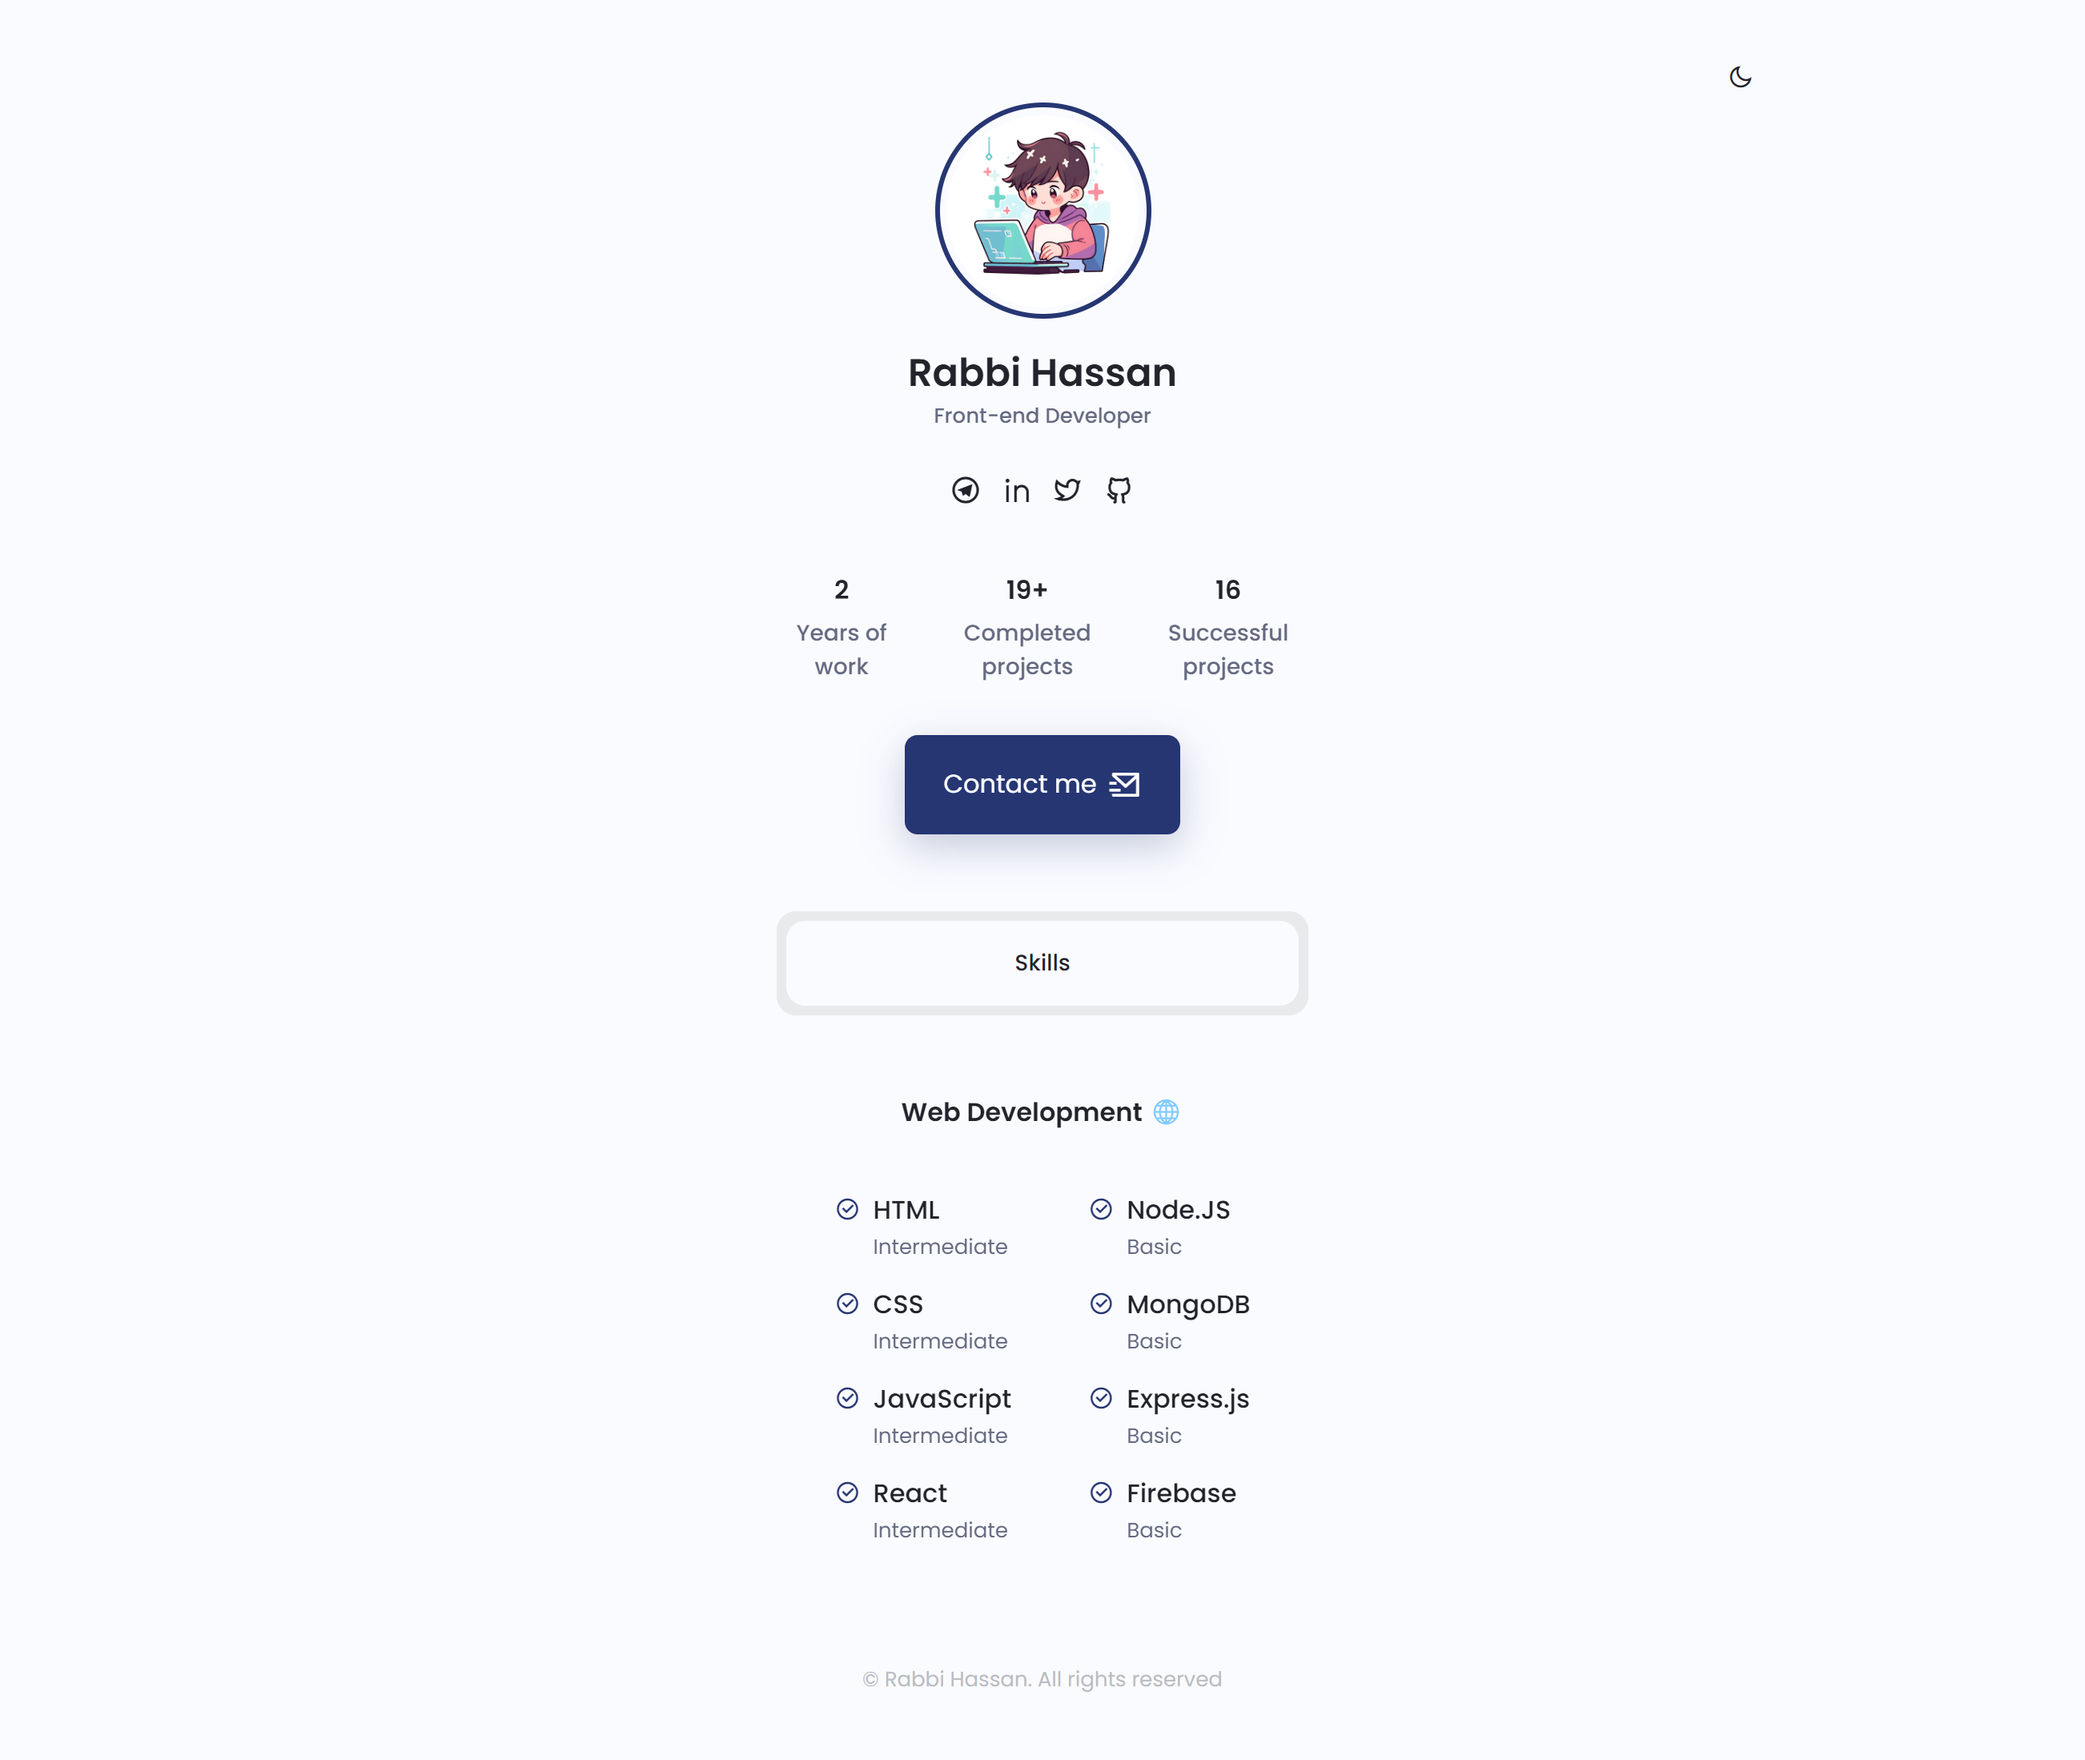
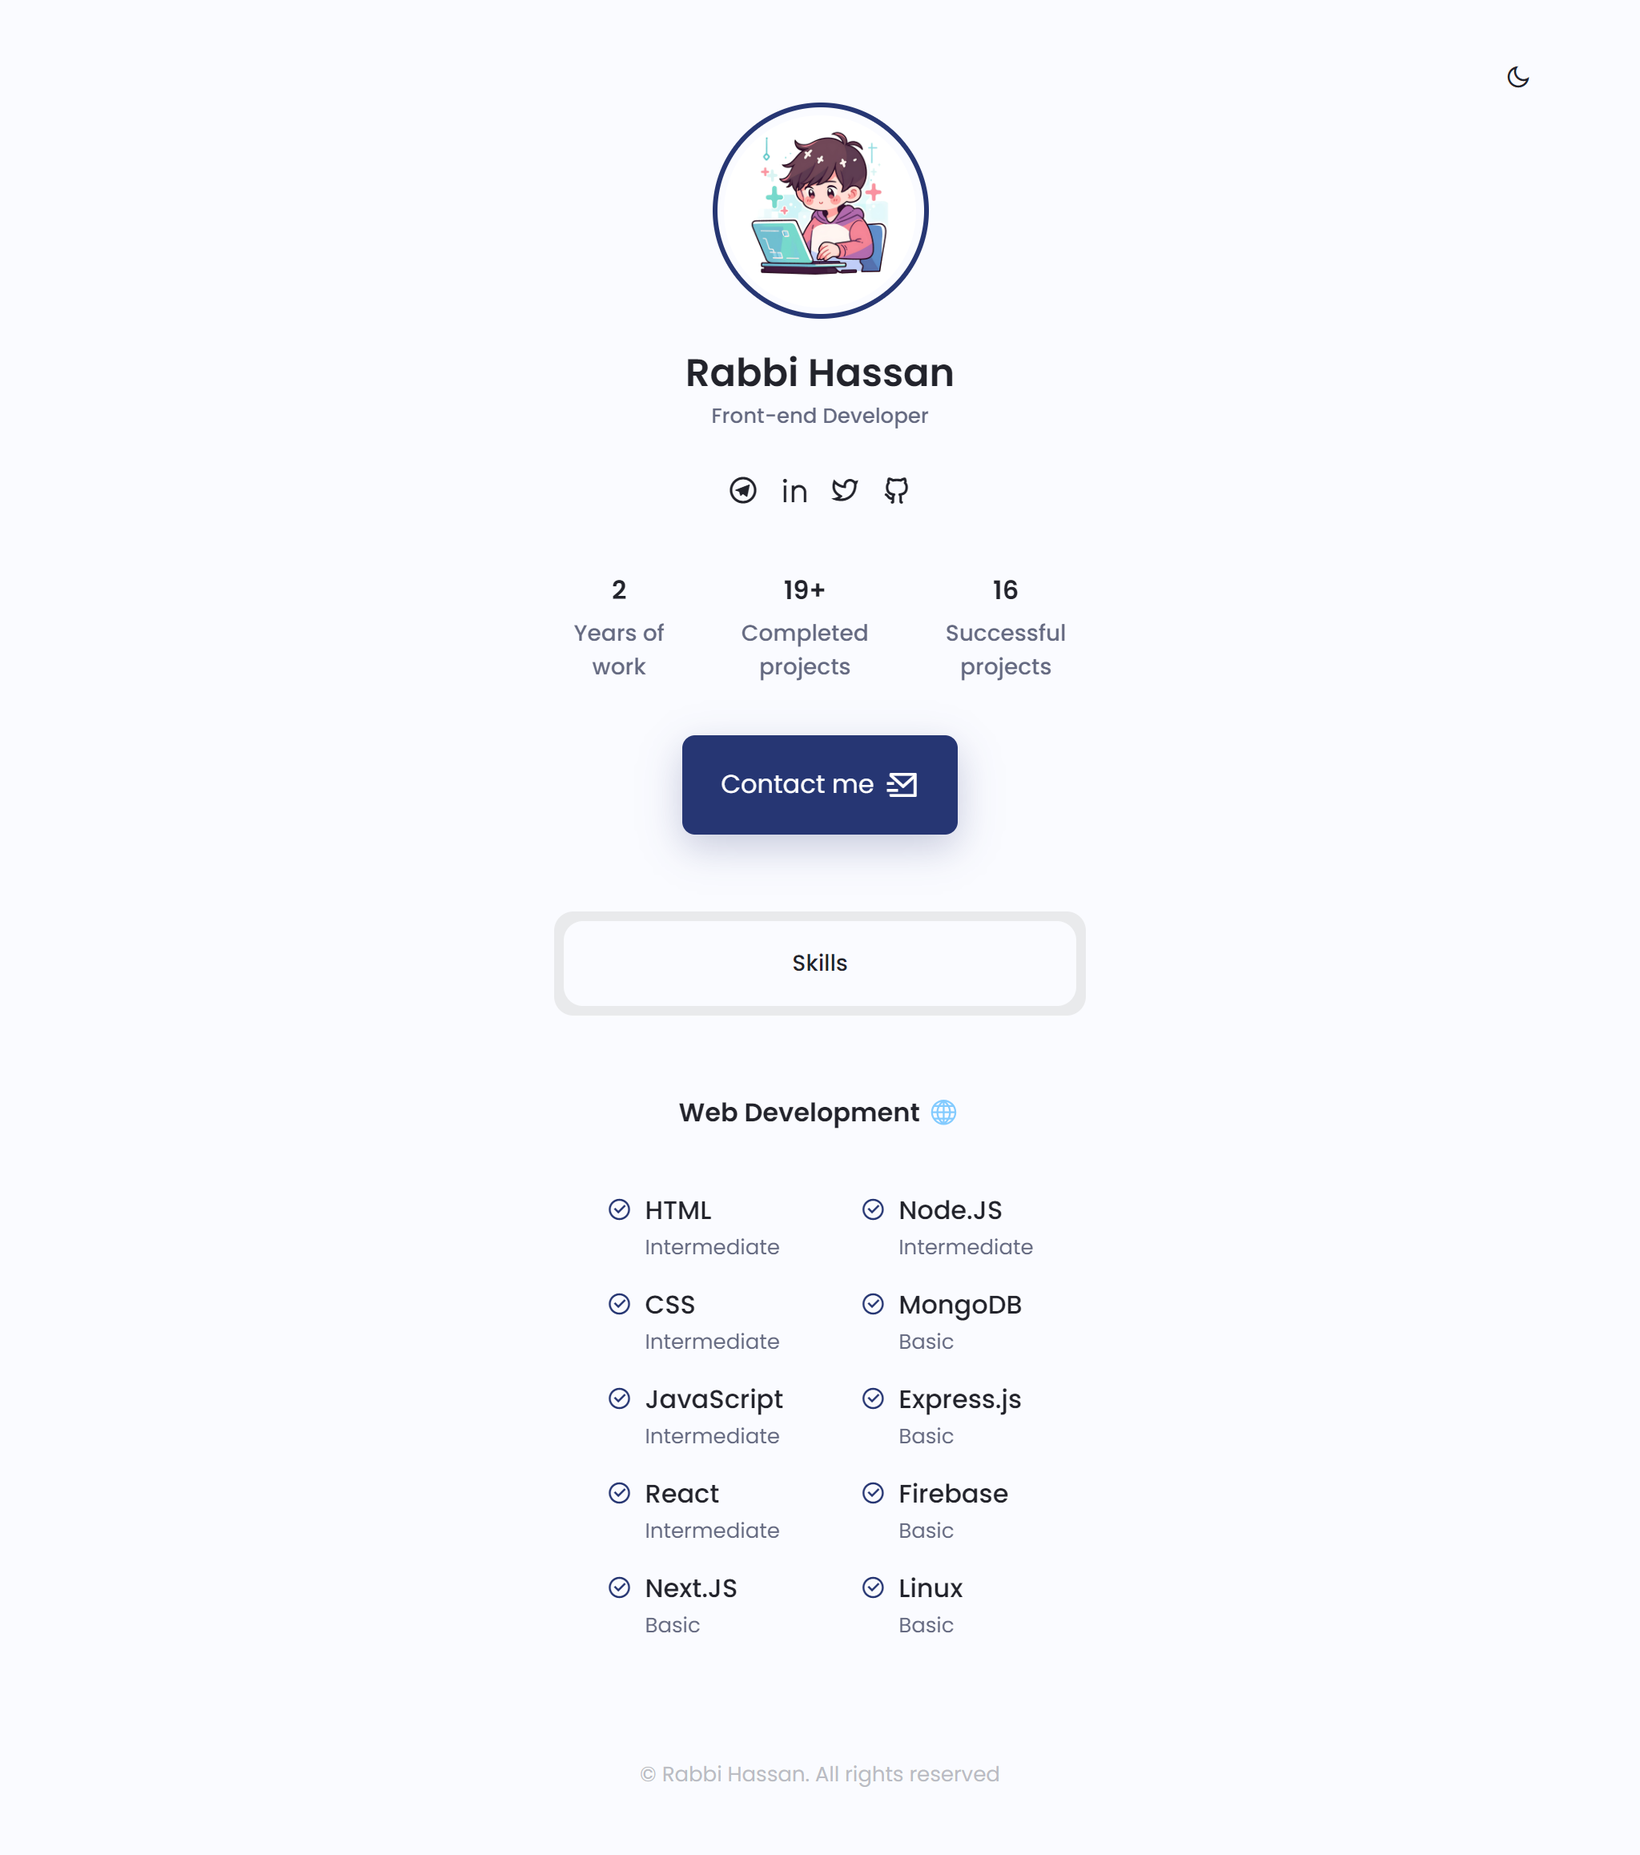
Add more skill

diff --git a/index.html b/index.html
@@ -2,6 +2,7 @@
 <html lang="en">
 
 <head>
+    <!--  Rabbi Hassan. All rights reserved -->
     <meta charset="UTF-8">
     <meta http-equiv="X-UA-Compatible" content="IE=edge">
     <meta name="viewport" content="width=device-width, initial-scale=1.0">
@@ -147,6 +148,13 @@
                                         <span class="skills_level">Intermediate</span>
                                     </div>
                                 </div>
+                                <div class="skills_data">
+                                    <i class="ri-checkbox-circle-line"></i>
+                                    <div>
+                                        <h3 class="skills_name">Next.JS</h3>
+                                        <span class="skills_level">Basic</span>
+                                    </div>
+                                </div>
 
                             </div>
 
@@ -155,7 +163,7 @@
                                     <i class="ri-checkbox-circle-line"></i>
                                     <div>
                                         <h3 class="skills_name">Node.JS</h3>
-                                        <span class="skills_level">Basic</span>
+                                        <span class="skills_level">Intermediate</span>
                                     </div>
                                 </div>
                                 <div class="skills_data">
@@ -177,6 +185,13 @@
                                     <i class="ri-checkbox-circle-line"></i>
                                     <div>
                                         <h3 class="skills_name">Firebase</h3>
+                                        <span class="skills_level">Basic</span>
+                                    </div>
+                                </div>
+                                <div class="skills_data">
+                                    <i class="ri-checkbox-circle-line"></i>
+                                    <div>
+                                        <h3 class="skills_name">Linux</h3>
                                         <span class="skills_level">Basic</span>
                                     </div>
                                 </div>

diff --git a/README.md b/README.md
@@ -1,4 +1,6 @@
 # Responsive mini portfolio
 Responsive Mini Portfolio" inspired by Bedimcode. This is a personal website that you can show off your skills and it's super responsive and light and dark mode. Build using HTML, CSS, &amp; JavaScript.
 
-![alt text](https://raw.githubusercontent.com/itrabbi/itrabbi.github.io/main/assets/images/banner.png)
+<h4 align="center"><a href="https://itrabbi.github.io/">Live Demo</a></h4>
+
+![Banner](https://raw.githubusercontent.com/itrabbi/itrabbi.github.io/main/assets/images/banner.png)
